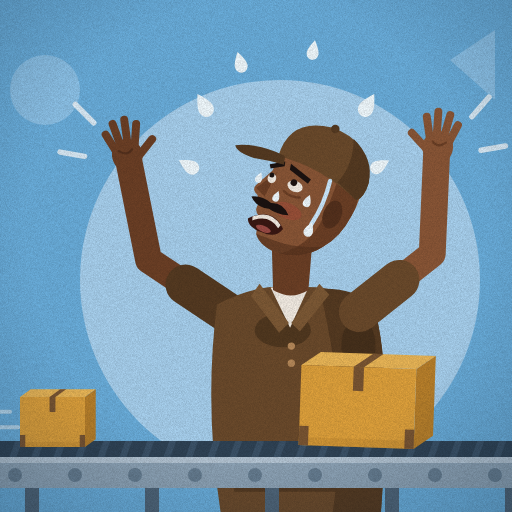
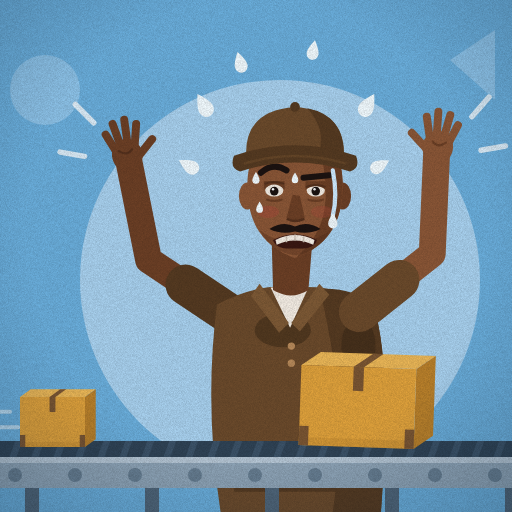
Turn the Preload worker to face the player
Front-facing head with eyes on the viewer, one brow cocked and a
clenched grimace; hands stay thrown up.

Claude-Session: https://claude.ai/code/session_01WatR7HZs1msEFRyDMCsuWq

Changed region(s): [[0.4375, 0.1875, 0.7188, 0.5]]

diff --git a/PreloadGame-Assets/src/generate.js b/PreloadGame-Assets/src/generate.js
@@ -85,37 +85,39 @@ function worker() {
   s += arm([105, 40], [225, -55], [232, -218], C.shirt, C.skin, C.skinShade, 10, 1);
   // neck
   s += `<path d="M-38 -70 L28 -70 L22 4 Q-6 22 -36 4 Z" fill="${C.skinShade}"/>`;
-  // head, tipped back to look up
-  s += `<g transform="rotate(22 -5 -60)">`;
-  s += `<path d="M-60 -238 Q-10 -262 44 -232 Q72 -200 64 -150 Q60 -110 40 -86 Q18 -54 -22 -48 Q-56 -46 -70 -64 L-76 -92 Q-90 -100 -84 -112 L-92 -124 Q-104 -128 -100 -138 L-84 -170 Q-84 -208 -60 -238 Z" fill="${C.skin}"/>`;
-  s += `<path d="M18 -230 Q72 -200 64 -150 Q60 -110 40 -86 Q18 -54 -22 -48 Q20 -80 22 -130 Q24 -190 18 -230 Z" fill="${C.skinShade}"/>`;
-  s += `<ellipse cx="34" cy="-140" rx="15" ry="24" fill="${C.skinDeep}"/>`;
-  s += `<ellipse cx="-36" cy="-118" rx="24" ry="13" fill="${C.flush}" opacity=".45"/>`;
-  // short beard shadow along the jaw
-  s += `<path d="M-70 -64 Q-56 -46 -22 -48 Q18 -54 40 -86 Q10 -70 -20 -66 Q-50 -64 -70 -64 Z" fill="${C.skinDeep}" opacity=".6"/>`;
-  // nose shadow
-  s += `<path d="M-76 -170 L-98 -134 L-80 -126 Z" fill="${C.skinShade}"/>`;
-  // exasperated brows (inner ends raised)
-  s += `<path d="M-60 -192 L-20 -180 L-22 -172 L-58 -182 Z" fill="${C.hair}"/>`;
-  s += `<path d="M-92 -178 L-70 -192 L-68 -184 L-88 -172 Z" fill="${C.hair}"/>`;
-  // eyes rolled up toward the ceiling
-  s += `<ellipse cx="-40" cy="-160" rx="13" ry="9" fill="${C.tee}"/><circle cx="-44" cy="-165" r="5.5" fill="${C.hair}"/>`;
-  s += `<ellipse cx="-80" cy="-158" rx="7" ry="8" fill="${C.tee}"/><circle cx="-82" cy="-163" r="4" fill="${C.hair}"/>`;
-  s += `<path d="M-54 -146 Q-40 -140 -26 -146" stroke="${C.skinShade}" stroke-width="4" fill="none" stroke-linecap="round"/>`;
-  // mouth open in a groan, mustache on top
-  s += `<path d="M-92 -82 Q-62 -116 -32 -88 Q-38 -68 -62 -70 Q-86 -68 -92 -82 Z" fill="${C.mouth}"/>`;
-  s += `<path d="M-86 -88 Q-62 -110 -38 -92 L-40 -86 Q-62 -102 -84 -82 Z" fill="${C.tee}"/>`;
-  s += `<ellipse cx="-62" cy="-76" rx="13" ry="5" fill="#9b4a44"/>`;
-  s += `<path d="M-100 -118 Q-84 -126 -66 -120 Q-48 -128 -32 -112 Q-50 -106 -66 -110 Q-86 -104 -100 -118 Z" fill="${C.hair}"/>`;
-  // cap
-  s += `<path d="M-84 -196 Q-90 -262 -20 -272 Q50 -276 70 -210 Q72 -186 62 -176 Q-10 -206 -84 -196 Z" fill="${C.cap}"/>`;
-  s += `<path d="M20 -268 Q64 -250 70 -210 Q72 -186 62 -176 Q40 -186 22 -192 Q36 -230 20 -268 Z" fill="${C.capShade}"/>`;
-  s += `<path d="M-74 -200 Q-120 -204 -156 -186 Q-150 -176 -120 -178 Q-96 -184 -70 -186 Z" fill="${C.capShade}"/>`;
-  s += `<circle cx="-14" cy="-272" r="7" fill="${C.capShade}"/>`;
+  // head, turned square to the camera: he's looking right at the player
+  s += `<ellipse cx="-78" cy="-150" rx="14" ry="22" fill="${C.skin}"/><ellipse cx="78" cy="-150" rx="14" ry="22" fill="${C.skinShade}"/>`;
+  s += `<path d="M0 -258 C60 -258 80 -212 78 -160 C76 -110 58 -70 0 -48 C-58 -70 -76 -110 -78 -160 C-80 -212 -60 -258 0 -258 Z" fill="${C.skin}"/>`;
+  s += `<path d="M30 -250 C68 -236 80 -204 78 -160 C76 -110 58 -70 0 -48 C40 -80 52 -120 50 -160 C48 -200 44 -230 30 -250 Z" fill="${C.skinShade}"/>`;
+  s += `<path d="M-58 -94 C-44 -68 -22 -56 0 -53 C22 -56 44 -68 58 -94 C40 -80 20 -76 0 -76 C-20 -76 -40 -80 -58 -94 Z" fill="${C.skinDeep}" opacity=".4"/>`;
+  s += `<ellipse cx="-44" cy="-124" rx="18" ry="10" fill="${C.flush}" opacity=".45"/><ellipse cx="44" cy="-124" rx="18" ry="10" fill="${C.flush}" opacity=".35"/>`;
+  // one brow cocked, one flat: "you seeing this?"
+  s += `<path d="M-56 -188 Q-36 -206 -14 -192" stroke="${C.hair}" stroke-width="10" fill="none" stroke-linecap="round"/>`;
+  s += `<path d="M14 -180 L56 -184" stroke="${C.hair}" stroke-width="10" fill="none" stroke-linecap="round"/>`;
+  // eyes locked on the viewer, lids half down
+  for (const [x, lid] of [[-34, -172], [34, -167]]) {
+    s += `<ellipse cx="${x}" cy="-160" rx="15" ry="11" fill="${C.tee}"/><circle cx="${x}" cy="-158" r="7" fill="${C.hair}"/><circle cx="${x - 2}" cy="-161" r="2" fill="#fff"/>`;
+    s += `<path d="M${x - 17} -160 Q${x} ${lid - 6} ${x + 17} -160 L${x + 17} -174 L${x - 17} -174 Z" fill="${C.skinShade}"/>`;
+    s += `<path d="M${x - 16} ${lid + 2} Q${x} ${lid - 4} ${x + 16} ${lid + 2}" stroke="${C.skinDeep}" stroke-width="3" fill="none"/>`;
+    s += `<path d="M${x - 12} -144 Q${x} -140 ${x + 12} -144" stroke="${C.skinShade}" stroke-width="3.5" fill="none" stroke-linecap="round"/>`;
+  }
+  // nose
+  s += `<path d="M-4 -152 L-14 -114 Q0 -106 16 -114 L8 -150 Z" fill="${C.skinShade}"/>`;
+  s += `<path d="M-12 -112 Q0 -106 14 -112" stroke="${C.skinDeep}" stroke-width="4" fill="none" stroke-linecap="round"/>`;
+  // clenched, downturned grimace under the mustache
+  s += `<path d="M-36 -78 Q0 -96 36 -78 Q32 -62 0 -64 Q-32 -62 -36 -78 Z" fill="${C.mouth}"/>`;
+  s += `<path d="M-32 -78 Q0 -94 32 -78 L30 -70 Q0 -84 -30 -70 Z" fill="${C.tee}"/>`;
+  s += `<path d="M-14 -84 V-74 M0 -87 V-77 M14 -84 V-74" stroke="#cfc4b8" stroke-width="2.5"/>`;
+  s += `<path d="M-42 -96 Q-20 -110 0 -100 Q20 -110 42 -96 Q22 -86 0 -92 Q-22 -86 -42 -96 Z" fill="${C.hair}"/>`;
+  // cap, seen from the front, bill curving down toward the viewer
+  s += `<path d="M-80 -214 Q-84 -290 0 -296 Q84 -290 80 -214 Q0 -232 -80 -214 Z" fill="${C.cap}"/>`;
+  s += `<path d="M20 -294 Q82 -282 80 -214 Q60 -220 40 -224 Q50 -262 20 -294 Z" fill="${C.capShade}"/>`;
+  s += `<path d="M-100 -216 Q0 -250 100 -216 Q108 -196 90 -190 Q0 -220 -90 -190 Q-108 -196 -100 -216 Z" fill="${C.capShade}"/>`;
+  s += `<path d="M-84 -203 Q0 -228 84 -203" stroke="${C.cap}" stroke-width="4" fill="none" opacity=".7"/>`;
+  s += `<circle cx="0" cy="-296" r="8" fill="${C.capShade}"/>`;
   // sweat on the face
-  s += `<path d="M10 -190 Q16 -150 8 -112" stroke="${C.sweatBlue}" stroke-width="7" fill="none" stroke-linecap="round"/>`;
-  s += drop(8, -104, 0.55) + drop(-12, -146, 0.45) + drop(-62, -134, 0.4) + drop(-100, -152, 0.4);
-  s += '</g>';
+  s += `<path d="M62 -192 Q70 -150 62 -118" stroke="${C.sweatBlue}" stroke-width="7" fill="none" stroke-linecap="round"/>`;
+  s += drop(62, -110, 0.55) + drop(-64, -180, 0.42) + drop(-58, -132, 0.4) + drop(0, -180, 0.38);
   // drops flying off
   s += drop(-150, -300, 0.9, -30) + drop(-175, -200, 0.8, -60) + drop(-90, -370, 0.75, -15);
   s += drop(120, -300, 0.9, 30) + drop(140, -200, 0.75, 60) + drop(30, -390, 0.7, 10);
